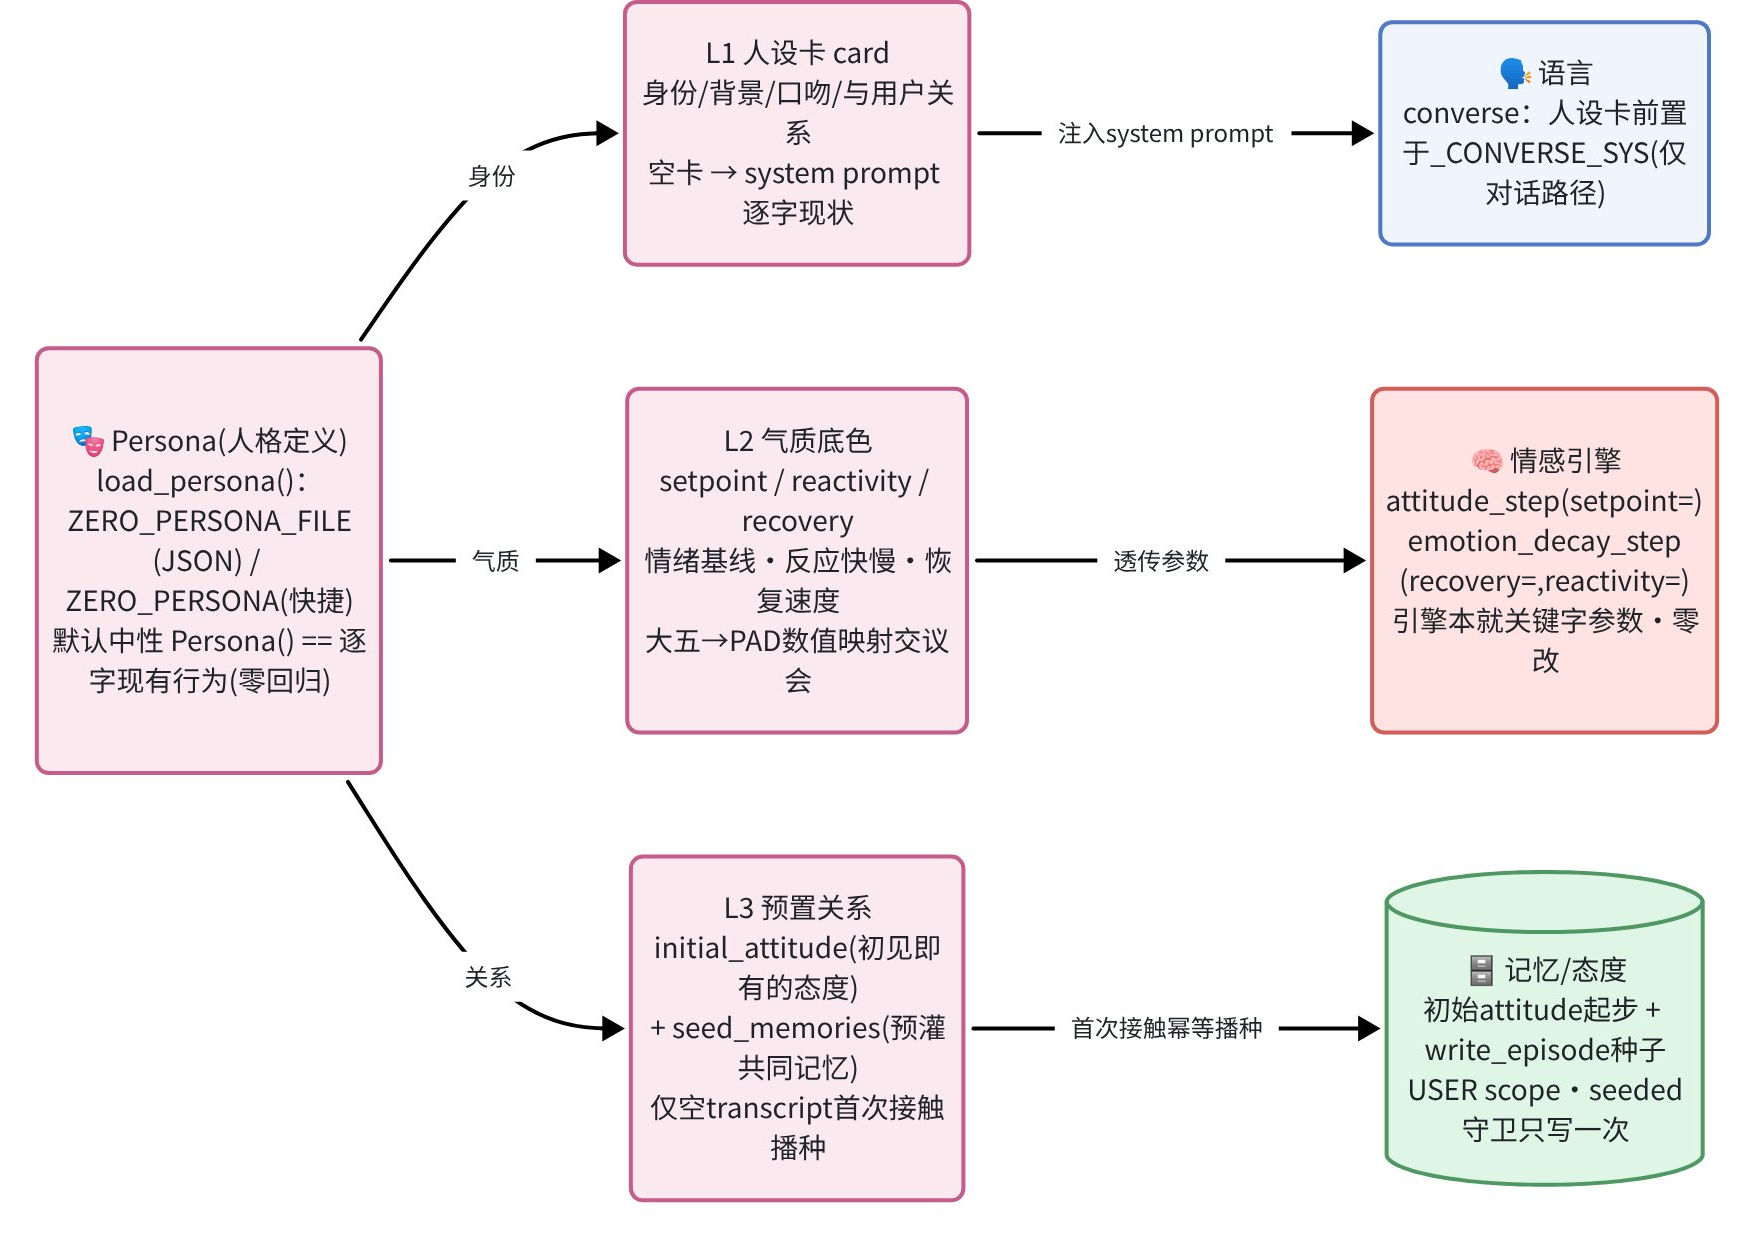
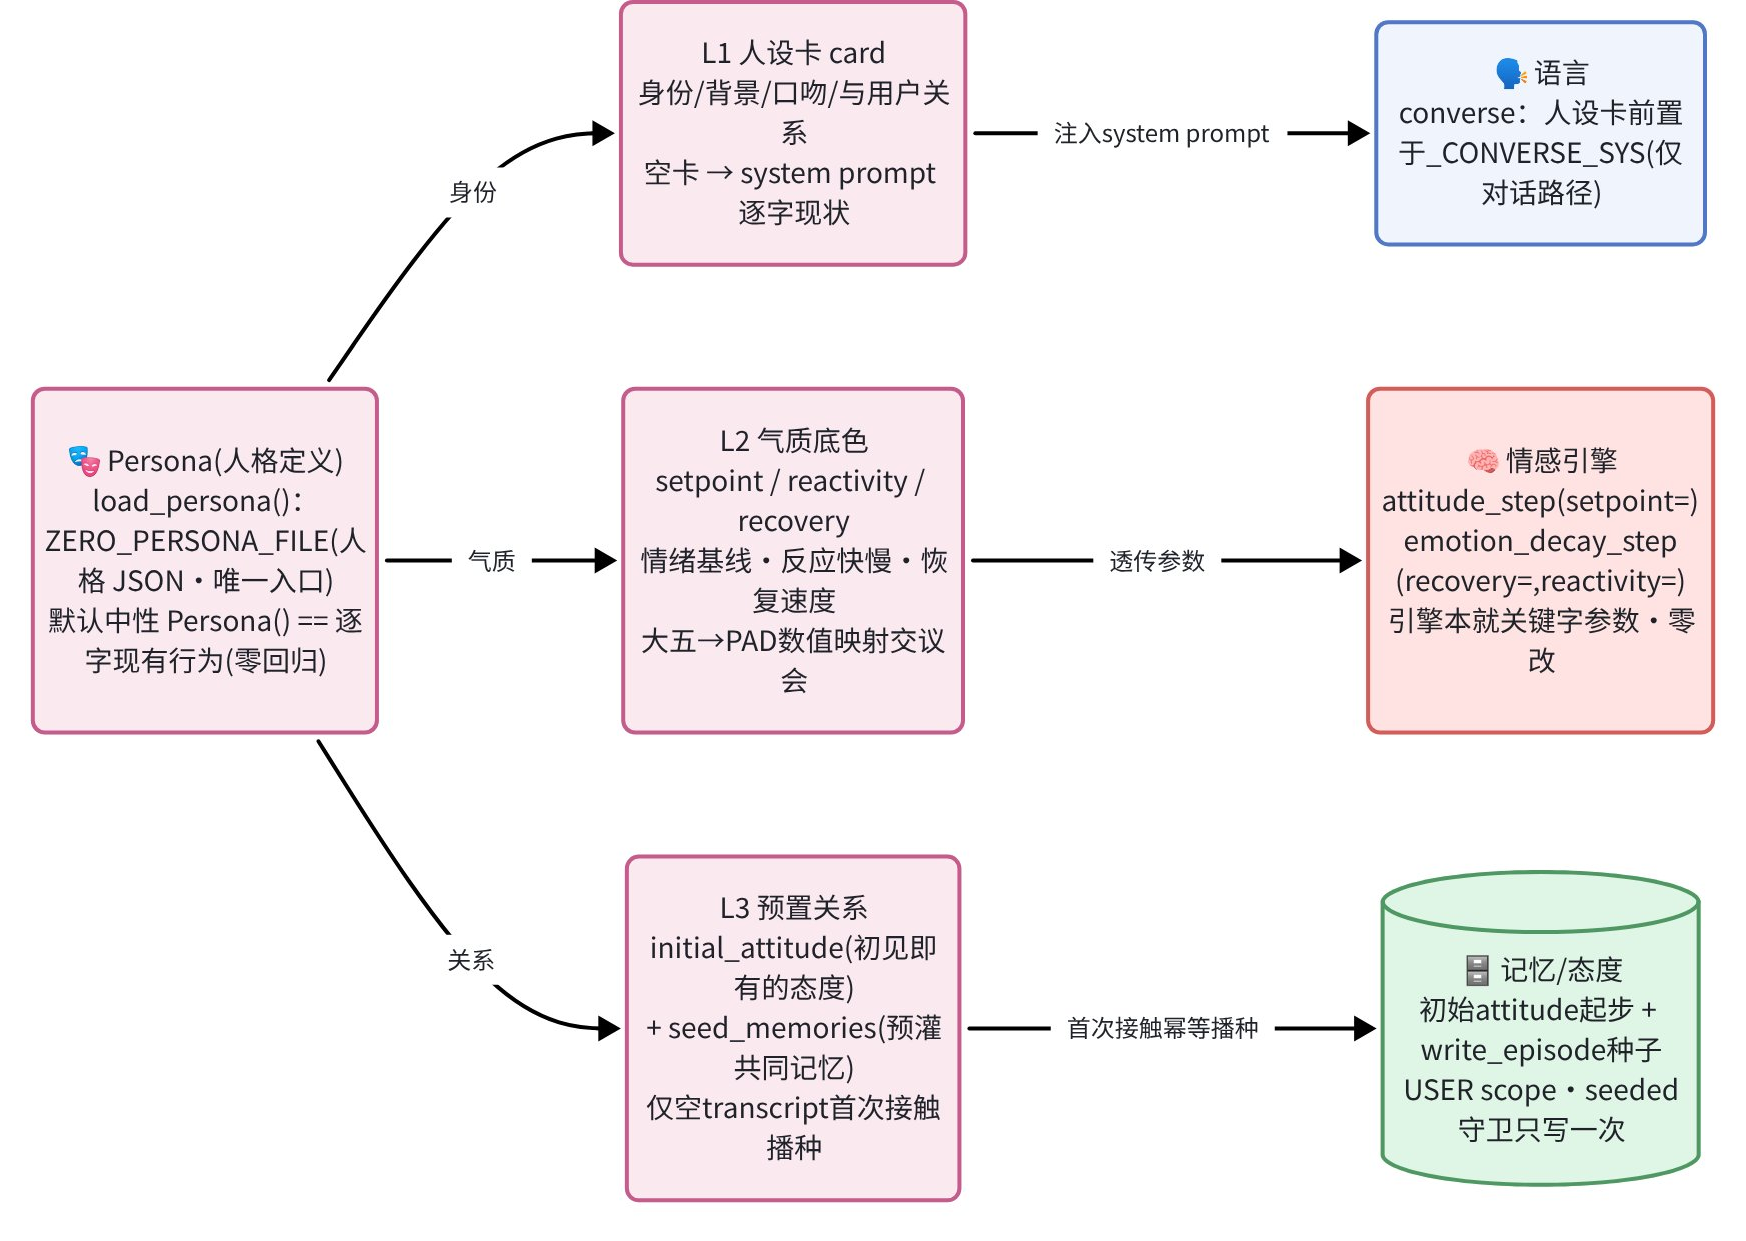
refactor(persona): 移除内联 ZERO_PERSONA，人格入口统一为 ZERO_PERSONA_FILE
ZERO_PERSONA(单行人设卡)与 ZERO_PERSONA_FILE 冗余——JSON 只写 card 一个字段即等价，
内联长文本还让 .env 臃肿。四处清干净：
- persona.py: 删 os.getenv("ZERO_PERSONA") 分支(改早返回中性 Persona())+ docstring
- test_persona.py: 删 test_load_persona_inline_card + 清 setenv/delenv(只写 card 的短人格由
  test_load_persona_partial_file 已覆盖)
- README: 人格配置节改单入口("只想要人设卡就只写 card 字段")
- persona-injection 图 .mmd/.json 去 ZERO_PERSONA + 经飞书重渲 PNG(临时画板已删)
回归: pytest 368 passed / 5 skipped, ruff+mypy 绿。(PROGRESS 阶段27 保留历史记述不改写)

diff --git a/tests/test_persona.py b/tests/test_persona.py
@@ -26,7 +26,6 @@ from src.storage.conversation_log import ConversationLog
 
 def test_load_persona_neutral_default(monkeypatch: pytest.MonkeyPatch) -> None:
     """未配置任何项 → 中性 Persona()：setpoint/反应/恢复=引擎常量、无卡/无种子（零回归基线）。"""
-    monkeypatch.delenv("ZERO_PERSONA", raising=False)
     monkeypatch.delenv("ZERO_PERSONA_FILE", raising=False)
     p = load_persona()
     assert p == Persona()
@@ -38,17 +37,8 @@ def test_load_persona_neutral_default(monkeypatch: pytest.MonkeyPatch) -> None:
     assert p.seed_memories == ()
 
 
-def test_load_persona_inline_card(monkeypatch: pytest.MonkeyPatch) -> None:
-    """ZERO_PERSONA 快捷入口：只配 L1 人设卡，其余仍中性。"""
-    monkeypatch.delenv("ZERO_PERSONA_FILE", raising=False)
-    monkeypatch.setenv("ZERO_PERSONA", "你叫小津")
-    p = load_persona()
-    assert p.card == "你叫小津"
-    assert p.setpoint == ATTITUDE_SETPOINT  # 仅 L1，气质仍中性
-
-
 def test_load_persona_from_json_file(monkeypatch: pytest.MonkeyPatch, tmp_path: Any) -> None:
-    """完整 JSON 文件：全字段解析（pair→tuple、seeds→tuple），文件优先于内联卡。"""
+    """完整 JSON 文件：全字段解析（pair→tuple、seeds→tuple）。"""
     path = tmp_path / "persona.json"
     path.write_text(
         json.dumps(
@@ -64,11 +54,10 @@ def test_load_persona_from_json_file(monkeypatch: pytest.MonkeyPatch, tmp_path: 
         ),
         encoding="utf-8",
     )
-    monkeypatch.setenv("ZERO_PERSONA", "应被文件覆盖")
     monkeypatch.setenv("ZERO_PERSONA_FILE", str(path))
     p = load_persona()
     assert p.name == "小津"
-    assert p.card == "你叫小津，是老友"  # 文件优先
+    assert p.card == "你叫小津，是老友"
     assert p.setpoint == (0.1, -0.05)
     assert p.reactivity == 0.7
     assert p.recovery == 0.5
@@ -104,7 +93,6 @@ def test_repo_persona_example_loads(monkeypatch: pytest.MonkeyPatch) -> None:
 
     example = Path(__file__).resolve().parent.parent / "persona.example.json"
     assert example.exists()  # committed 模板（data/ 被 gitignore，故置于根目录）
-    monkeypatch.delenv("ZERO_PERSONA", raising=False)
     monkeypatch.setenv("ZERO_PERSONA_FILE", str(example))
     p = load_persona()
     assert p.card  # L1 卡非空

diff --git a/src/agents/persona.py b/src/agents/persona.py
@@ -72,22 +72,20 @@ def _persona_from_dict(data: dict[str, object]) -> Persona:
 
 
 def load_persona() -> Persona:
-    """从环境装配 Persona。未配置任何项 → 返回中性 `Persona()`（== 现有行为，零回归）。
+    """从环境装配 Persona。未配置 `ZERO_PERSONA_FILE` → 中性 `Persona()`（== 现有行为，零回归）。
 
-    两种来源（互补）：
-    - `ZERO_PERSONA_FILE`：人格定义 JSON 文件路径（全字段：name/card/setpoint/reactivity/
-      recovery/initial_attitude/seed_memories，均可选）。**显式给了路径却读不出/格式错 → 抛错**
-      （配置错误 fail-fast，不静默退化中性，见 [[config-only-via-env]]）。
-    - `ZERO_PERSONA`：仅人设卡文本的快捷入口（只配 L1 时省去写文件）；与文件并存时文件优先。
+    唯一来源 `ZERO_PERSONA_FILE`：人格定义 JSON 文件路径（全字段 name/card/setpoint/reactivity/
+    recovery/initial_attitude/seed_memories，**均可选**——只想要人设卡就只写 `card` 一个字段，
+    免去往 `.env` 塞长文本、也不让配置臃肿）。**显式给了路径却读不出/格式错 → 抛错**（配置错误
+    fail-fast，不静默退化中性，见 [[config-only-via-env]]）。
     """
     path = os.getenv("ZERO_PERSONA_FILE")
-    if path:
-        with open(path, encoding="utf-8") as fh:
-            data = json.load(fh)
-        if not isinstance(data, dict):
-            raise ValueError(
-                f"ZERO_PERSONA_FILE={path} 顶层须为 JSON 对象，得到：{type(data).__name__}"
-            )
-        return _persona_from_dict(data)
-    card = os.getenv("ZERO_PERSONA", "")
-    return Persona(card=card)
+    if not path:
+        return Persona()
+    with open(path, encoding="utf-8") as fh:
+        data = json.load(fh)
+    if not isinstance(data, dict):
+        raise ValueError(
+            f"ZERO_PERSONA_FILE={path} 顶层须为 JSON 对象，得到：{type(data).__name__}"
+        )
+    return _persona_from_dict(data)
